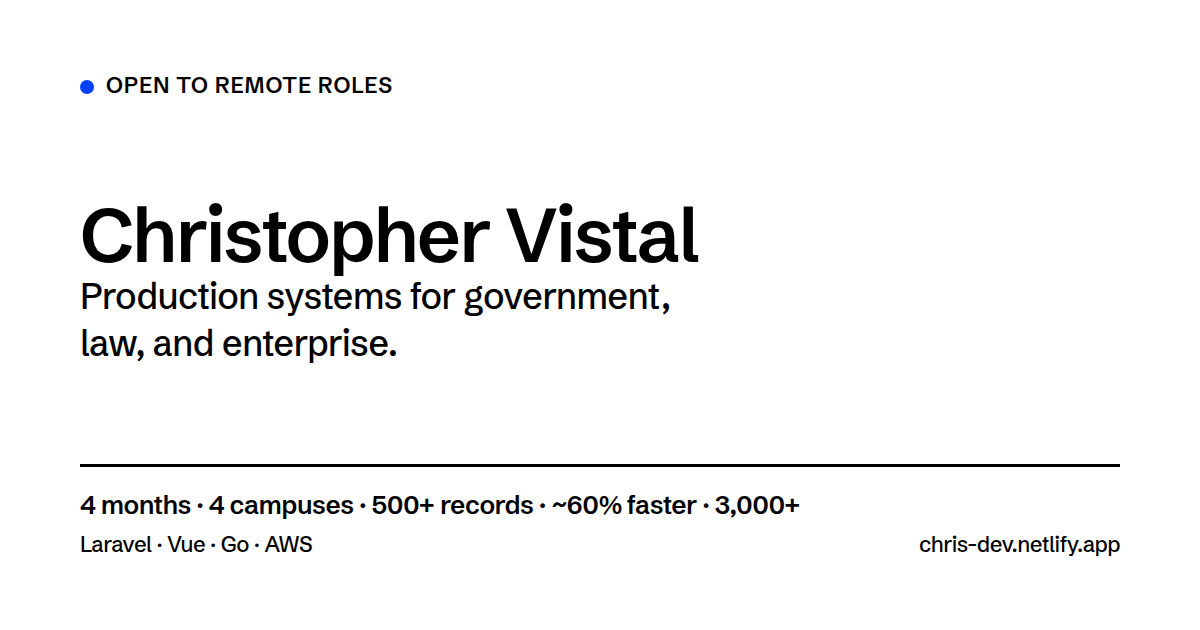
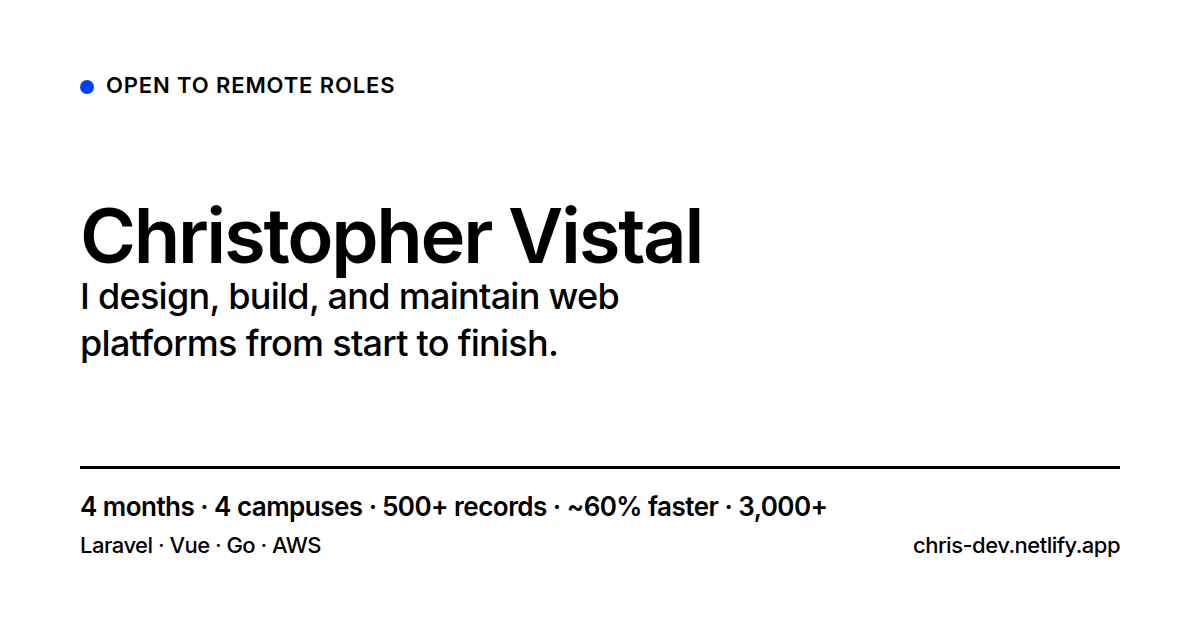
Use a quieter homepage tagline
The hero is now "I design, build, and maintain web platforms from start to finish." Descriptions, structured data, and the résumé summary follow that tone.

diff --git a/aboutme.html b/aboutme.html
@@ -4,7 +4,7 @@
 <meta charset="utf-8">
 <meta name="viewport" content="width=device-width, initial-scale=1">
 <title>About, Christopher Vistal</title>
-<meta name="description" content="About Christopher Vistal, software engineer. Production systems for government, law, and enterprise, plus references from clients and colleagues.">
+<meta name="description" content="About Christopher Vistal, software engineer. I design, build, and maintain web platforms from start to finish. Includes references from clients and colleagues.">
 <meta name="author" content="Christopher Vistal">
 <meta name="keywords" content="Christopher Vistal, about, software engineer, PHP developer, Laravel developer, Vue.js, Go, AWS, MySQL, SQL Server, REST API, Philippines, resume, experience, skills, references">
 <meta name="robots" content="index, follow, max-snippet:-1, max-image-preview:large">
@@ -12,18 +12,18 @@
 <link rel="alternate" type="text/plain" href="https://chris-dev.netlify.app/llms.txt" title="LLM-readable site summary">
 <meta property="og:type" content="profile">
 <meta property="og:title" content="About, Christopher Vistal">
-<meta property="og:description" content="Production systems for government, law, and enterprise, plus references from clients and colleagues.">
+<meta property="og:description" content="I design, build, and maintain web platforms from start to finish, with references from clients and colleagues.">
 <meta property="og:url" content="https://chris-dev.netlify.app/aboutme.html">
 <meta property="og:image" content="https://chris-dev.netlify.app/assets/images/og-card.png">
 <meta property="og:image:type" content="image/png">
 <meta property="og:image:width" content="1200">
 <meta property="og:image:height" content="630">
-<meta property="og:image:alt" content="Christopher Vistal, software engineer. Production systems for government, law, and enterprise.">
+<meta property="og:image:alt" content="Christopher Vistal, software engineer. I design, build, and maintain web platforms from start to finish.">
 <meta name="twitter:card" content="summary_large_image">
 <meta name="twitter:title" content="About, Christopher Vistal">
-<meta name="twitter:description" content="Production systems for government, law, and enterprise, plus references from clients and colleagues.">
+<meta name="twitter:description" content="I design, build, and maintain web platforms from start to finish, with references from clients and colleagues.">
 <meta name="twitter:image" content="https://chris-dev.netlify.app/assets/images/og-card.png">
-<meta name="twitter:image:alt" content="Christopher Vistal, software engineer. Production systems for government, law, and enterprise.">
+<meta name="twitter:image:alt" content="Christopher Vistal, software engineer. I design, build, and maintain web platforms from start to finish.">
 <link rel="icon" href="/favicon.svg" type="image/svg+xml">
 <link rel="icon" href="/favicon.png" type="image/png" sizes="32x32">
 <link rel="apple-touch-icon" href="/apple-touch-icon.png">
@@ -34,7 +34,7 @@
   "name": "Christopher Vistal",
   "url": "https://chris-dev.netlify.app/aboutme.html",
   "jobTitle": "Software Engineer",
-  "description": "Software engineer who builds production systems for government, law, and enterprise: case management, citizen records, and AI-powered tools that ship and stay shipped. Backend-leaning, with experience in role-based access control, queue pipelines, document automation, and on-premise and cloud deployments.",
+  "description": "I design, build, and maintain web platforms from start to finish. Backend-leaning, with experience in role-based access control, queue pipelines, document automation, and on-premise and cloud deployments.",
   "email": "mailto:vistalchris@gmail.com",
   "image": "https://chris-dev.netlify.app/assets/images/og-card.png",
   "address": { "@type": "PostalAddress", "addressLocality": "Tandag", "addressRegion": "Surigao del Sur", "addressCountry": "PH" },
@@ -107,7 +107,7 @@
 <h1>Christopher Vistal</h1>
 <p class="status"><span class="dot" aria-hidden="true"></span>Open to remote roles &amp; contracts</p>
 </div>
-<p class="pitch">I build production systems for government, law, and enterprise — case management, citizen records, and AI-powered tools that ship and stay shipped.</p>
+<p class="pitch">I design, build, and maintain web platforms from start to finish.</p>
 <p class="meta">Tandag, Surigao del Sur, PH · UTC+8 · 5+ years</p>
 <nav class="actions" aria-label="Contact">
 <a class="btn btn-primary" href="mailto:vistalchris@gmail.com">vistalchris@gmail.com</a>

diff --git a/index.html b/index.html
@@ -4,26 +4,26 @@
 <meta charset="utf-8">
 <meta name="viewport" content="width=device-width, initial-scale=1">
 <title>Christopher Vistal — Software Engineer</title>
-<meta name="description" content="Christopher Vistal builds production systems for government, law, and enterprise. Case management, citizen records, and on-device AI. Laravel, Vue, Go, AWS.">
+<meta name="description" content="Christopher Vistal, software engineer. I design, build, and maintain web platforms from start to finish. Laravel, Vue, Go, AWS.">
 <link rel="canonical" href="https://chris-dev.netlify.app/">
 <meta property="og:title" content="Christopher Vistal — Software Engineer">
-<meta property="og:description" content="Production systems for government, law, and enterprise. Case management, citizen records, and on-device AI. Laravel, Vue, Go, AWS.">
+<meta property="og:description" content="I design, build, and maintain web platforms from start to finish. Laravel, Vue, Go, AWS.">
 <meta property="og:url" content="https://chris-dev.netlify.app/">
 <meta property="og:type" content="website">
 <meta property="og:image" content="https://chris-dev.netlify.app/assets/images/og-card.png">
 <meta property="og:image:type" content="image/png">
 <meta property="og:image:width" content="1200">
 <meta property="og:image:height" content="630">
-<meta property="og:image:alt" content="Christopher Vistal, software engineer. Production systems for government, law, and enterprise.">
+<meta property="og:image:alt" content="Christopher Vistal, software engineer. I design, build, and maintain web platforms from start to finish.">
 <meta name="author" content="Christopher Vistal">
 <meta name="keywords" content="Christopher Vistal, software engineer, Laravel developer, PHP developer, Vue.js, Inertia.js, Go developer, full-stack, REST API, AWS, MySQL, SQL Server, remote software engineer, Philippines">
 <meta name="robots" content="index, follow, max-snippet:-1, max-image-preview:large">
 <meta property="og:site_name" content="Christopher Vistal">
 <meta name="twitter:card" content="summary_large_image">
 <meta name="twitter:title" content="Christopher Vistal — Software Engineer">
-<meta name="twitter:description" content="Production systems for government, law, and enterprise. Case management, citizen records, and on-device AI. Laravel, Vue, Go, AWS.">
+<meta name="twitter:description" content="I design, build, and maintain web platforms from start to finish. Laravel, Vue, Go, AWS.">
 <meta name="twitter:image" content="https://chris-dev.netlify.app/assets/images/og-card.png">
-<meta name="twitter:image:alt" content="Christopher Vistal, software engineer. Production systems for government, law, and enterprise.">
+<meta name="twitter:image:alt" content="Christopher Vistal, software engineer. I design, build, and maintain web platforms from start to finish.">
 <link rel="icon" href="/favicon.svg" type="image/svg+xml">
 <link rel="icon" href="/favicon.png" type="image/png" sizes="32x32">
 <link rel="apple-touch-icon" href="/apple-touch-icon.png">
@@ -41,7 +41,7 @@
     "@type": "Person",
     "name": "Christopher Vistal",
     "jobTitle": "Software Engineer",
-    "description": "Software engineer who builds production systems for government, law, and enterprise: case management, citizen records, and AI-powered tools that ship and stay shipped. Core stack is Laravel, Vue.js, and Go on AWS. Open to full-time remote roles and contracts.",
+    "description": "Software engineer. I design, build, and maintain web platforms from start to finish. Core stack is Laravel, Vue.js, and Go on AWS. Open to full-time remote roles and contracts.",
     "url": "https://chris-dev.netlify.app/",
     "email": "mailto:vistalchris@gmail.com",
     "image": "https://chris-dev.netlify.app/assets/images/avatar.jpg",
@@ -111,7 +111,7 @@
 <p class="status"><span class="dot" aria-hidden="true"></span>Open to remote roles &amp; contracts</p>
 </div>
 <p class="role">Software engineer · Laravel, Vue, Go, AWS</p>
-<p class="pitch">I build production systems for government, law, and enterprise — case management, citizen records, and AI-powered tools that ship and stay shipped.</p>
+<p class="pitch">I design, build, and maintain web platforms from start to finish.</p>
 <p class="meta">Tandag, Surigao del Sur, PH · UTC+8 · 5+ years</p>
 <nav class="actions" aria-label="Contact">
 <a class="btn btn-primary" href="mailto:vistalchris@gmail.com">vistalchris@gmail.com</a>

diff --git a/resume.html b/resume.html
@@ -4,24 +4,24 @@
 <meta charset="utf-8">
 <meta name="viewport" content="width=device-width, initial-scale=1">
 <title>Christopher Vistal — Résumé</title>
-<meta name="description" content="Résumé of Christopher Vistal. Production systems for government, law, and enterprise in Laravel, Vue, Go and AWS. Open to remote roles and contracts.">
+<meta name="description" content="Résumé of Christopher Vistal. I design, build, and maintain web platforms from start to finish. Open to remote roles and contracts.">
 <meta name="author" content="Christopher Vistal">
 <meta name="robots" content="index, follow, max-snippet:-1, max-image-preview:large">
 <link rel="canonical" href="https://chris-dev.netlify.app/resume.html">
 <meta property="og:title" content="Christopher Vistal — Résumé">
-<meta property="og:description" content="Production systems for government, law, and enterprise in Laravel, Vue, Go and AWS.">
+<meta property="og:description" content="I design, build, and maintain web platforms from start to finish. Open to remote roles and contracts.">
 <meta property="og:url" content="https://chris-dev.netlify.app/resume.html">
 <meta property="og:type" content="profile">
 <meta property="og:image" content="https://chris-dev.netlify.app/assets/images/og-card.png">
 <meta property="og:image:type" content="image/png">
 <meta property="og:image:width" content="1200">
 <meta property="og:image:height" content="630">
-<meta property="og:image:alt" content="Christopher Vistal, software engineer. Production systems for government, law, and enterprise.">
+<meta property="og:image:alt" content="Christopher Vistal, software engineer. I design, build, and maintain web platforms from start to finish.">
 <meta name="twitter:card" content="summary_large_image">
 <meta name="twitter:title" content="Christopher Vistal — Résumé">
-<meta name="twitter:description" content="Production systems for government, law, and enterprise in Laravel, Vue, Go and AWS.">
+<meta name="twitter:description" content="I design, build, and maintain web platforms from start to finish. Open to remote roles and contracts.">
 <meta name="twitter:image" content="https://chris-dev.netlify.app/assets/images/og-card.png">
-<meta name="twitter:image:alt" content="Christopher Vistal, software engineer. Production systems for government, law, and enterprise.">
+<meta name="twitter:image:alt" content="Christopher Vistal, software engineer. I design, build, and maintain web platforms from start to finish.">
 <link rel="icon" href="/favicon.svg" type="image/svg+xml">
 <link rel="icon" href="/favicon.png" type="image/png" sizes="32x32">
 <link rel="apple-touch-icon" href="/apple-touch-icon.png">
@@ -32,7 +32,7 @@
   "@type": "Person",
   "name": "Christopher Vistal",
   "jobTitle": "Software Engineer",
-  "description": "Software engineer who builds production systems for government, law, and enterprise: case management, citizen records, and AI-powered tools. Laravel, Vue.js, and Go on AWS. Open to full-time remote roles and contracts.",
+  "description": "Software engineer. I design, build, and maintain web platforms from start to finish. Laravel, Vue.js, and Go on AWS. Open to full-time remote roles and contracts.",
   "url": "https://chris-dev.netlify.app/",
   "email": "mailto:vistalchris@gmail.com",
   "telephone": "+639270323277",
@@ -117,7 +117,7 @@ li + li{margin-top:var(--bullet)}
 <h1>Christopher Vistal</h1>
 <p class="contact">Tandag, Surigao del Sur, PH (UTC+8) · <a href="tel:+639270323277">+63 927 032 3277</a> · <a href="mailto:vistalchris@gmail.com">vistalchris@gmail.com</a> · <a href="https://chris-dev.netlify.app/">chris-dev.netlify.app</a> · <a href="https://github.com/christophervistal25">github.com/christophervistal25</a> · <a href="https://www.linkedin.com/in/christophervistal25/">linkedin.com/in/christophervistal25</a></p>
 </header>
-<p class="summary">Software engineer, 5+ years. I build production systems for government, law, and enterprise in Laravel, Vue, Go and AWS. Open to remote roles and contracts.</p>
+<p class="summary">Software engineer, 5+ years. I design, build, and maintain web platforms from start to finish. Open to remote roles and contracts.</p>
 
 <section>
 <h2>Experience</h2>

diff --git a/case/ata-law-firm.html b/case/ata-law-firm.html
@@ -18,10 +18,10 @@
     <meta property="og:image:type" content="image/png" />
     <meta property="og:image:width" content="1200" />
     <meta property="og:image:height" content="630" />
-    <meta property="og:image:alt" content="Christopher Vistal, software engineer. Production systems for government, law, and enterprise." />
+    <meta property="og:image:alt" content="Christopher Vistal, software engineer. I design, build, and maintain web platforms from start to finish." />
     <meta name="twitter:card" content="summary_large_image" />
     <meta name="twitter:image" content="https://chris-dev.netlify.app/assets/images/og-card.png" />
-    <meta name="twitter:image:alt" content="Christopher Vistal, software engineer. Production systems for government, law, and enterprise." />
+    <meta name="twitter:image:alt" content="Christopher Vistal, software engineer. I design, build, and maintain web platforms from start to finish." />
     <link rel="icon" href="/favicon.svg" type="image/svg+xml" />
     <link rel="icon" href="/favicon.png" type="image/png" sizes="32x32" />
     <link rel="apple-touch-icon" href="/apple-touch-icon.png" />

diff --git a/case/e-pds.html b/case/e-pds.html
@@ -15,10 +15,10 @@
     <meta property="og:image:type" content="image/png" />
     <meta property="og:image:width" content="1200" />
     <meta property="og:image:height" content="630" />
-    <meta property="og:image:alt" content="Christopher Vistal, software engineer. Production systems for government, law, and enterprise." />
+    <meta property="og:image:alt" content="Christopher Vistal, software engineer. I design, build, and maintain web platforms from start to finish." />
     <meta name="twitter:card" content="summary_large_image" />
     <meta name="twitter:image" content="https://chris-dev.netlify.app/assets/images/og-card.png" />
-    <meta name="twitter:image:alt" content="Christopher Vistal, software engineer. Production systems for government, law, and enterprise." />
+    <meta name="twitter:image:alt" content="Christopher Vistal, software engineer. I design, build, and maintain web platforms from start to finish." />
     <link rel="icon" href="/favicon.svg" type="image/svg+xml" />
     <link rel="icon" href="/favicon.png" type="image/png" sizes="32x32" />
     <link rel="apple-touch-icon" href="/apple-touch-icon.png" />

diff --git a/case/nemsu-data-hub.html b/case/nemsu-data-hub.html
@@ -18,10 +18,10 @@
     <meta property="og:image:type" content="image/png" />
     <meta property="og:image:width" content="1200" />
     <meta property="og:image:height" content="630" />
-    <meta property="og:image:alt" content="Christopher Vistal, software engineer. Production systems for government, law, and enterprise." />
+    <meta property="og:image:alt" content="Christopher Vistal, software engineer. I design, build, and maintain web platforms from start to finish." />
     <meta name="twitter:card" content="summary_large_image" />
     <meta name="twitter:image" content="https://chris-dev.netlify.app/assets/images/og-card.png" />
-    <meta name="twitter:image:alt" content="Christopher Vistal, software engineer. Production systems for government, law, and enterprise." />
+    <meta name="twitter:image:alt" content="Christopher Vistal, software engineer. I design, build, and maintain web platforms from start to finish." />
     <link rel="icon" href="/favicon.svg" type="image/svg+xml" />
     <link rel="icon" href="/favicon.png" type="image/png" sizes="32x32" />
     <link rel="apple-touch-icon" href="/apple-touch-icon.png" />

diff --git a/case/offline-transcriber.html b/case/offline-transcriber.html
@@ -18,10 +18,10 @@
     <meta property="og:image:type" content="image/png" />
     <meta property="og:image:width" content="1200" />
     <meta property="og:image:height" content="630" />
-    <meta property="og:image:alt" content="Christopher Vistal, software engineer. Production systems for government, law, and enterprise." />
+    <meta property="og:image:alt" content="Christopher Vistal, software engineer. I design, build, and maintain web platforms from start to finish." />
     <meta name="twitter:card" content="summary_large_image" />
     <meta name="twitter:image" content="https://chris-dev.netlify.app/assets/images/og-card.png" />
-    <meta name="twitter:image:alt" content="Christopher Vistal, software engineer. Production systems for government, law, and enterprise." />
+    <meta name="twitter:image:alt" content="Christopher Vistal, software engineer. I design, build, and maintain web platforms from start to finish." />
     <link rel="icon" href="/favicon.svg" type="image/svg+xml" />
     <link rel="icon" href="/favicon.png" type="image/png" sizes="32x32" />
     <link rel="apple-touch-icon" href="/apple-touch-icon.png" />

diff --git a/README.md b/README.md
@@ -1,8 +1,8 @@
 # Christopher Vistal
 
-**Full-Stack Software Engineer** — I build production systems for government agencies, law firms, and enterprise teams.
+**Full-Stack Software Engineer** — I design, build, and maintain web platforms from start to finish.
 
-Case management platforms, citizen records systems, and AI-powered tools that ship and stay shipped.
+Case management platforms, citizen records systems, and on-device tools.
 
 📍 Surigao del Sur, Philippines &nbsp;·&nbsp; 🌐 [chris-dev.netlify.app](https://chris-dev.netlify.app) &nbsp;·&nbsp; 📧 vistalchris@gmail.com
 
